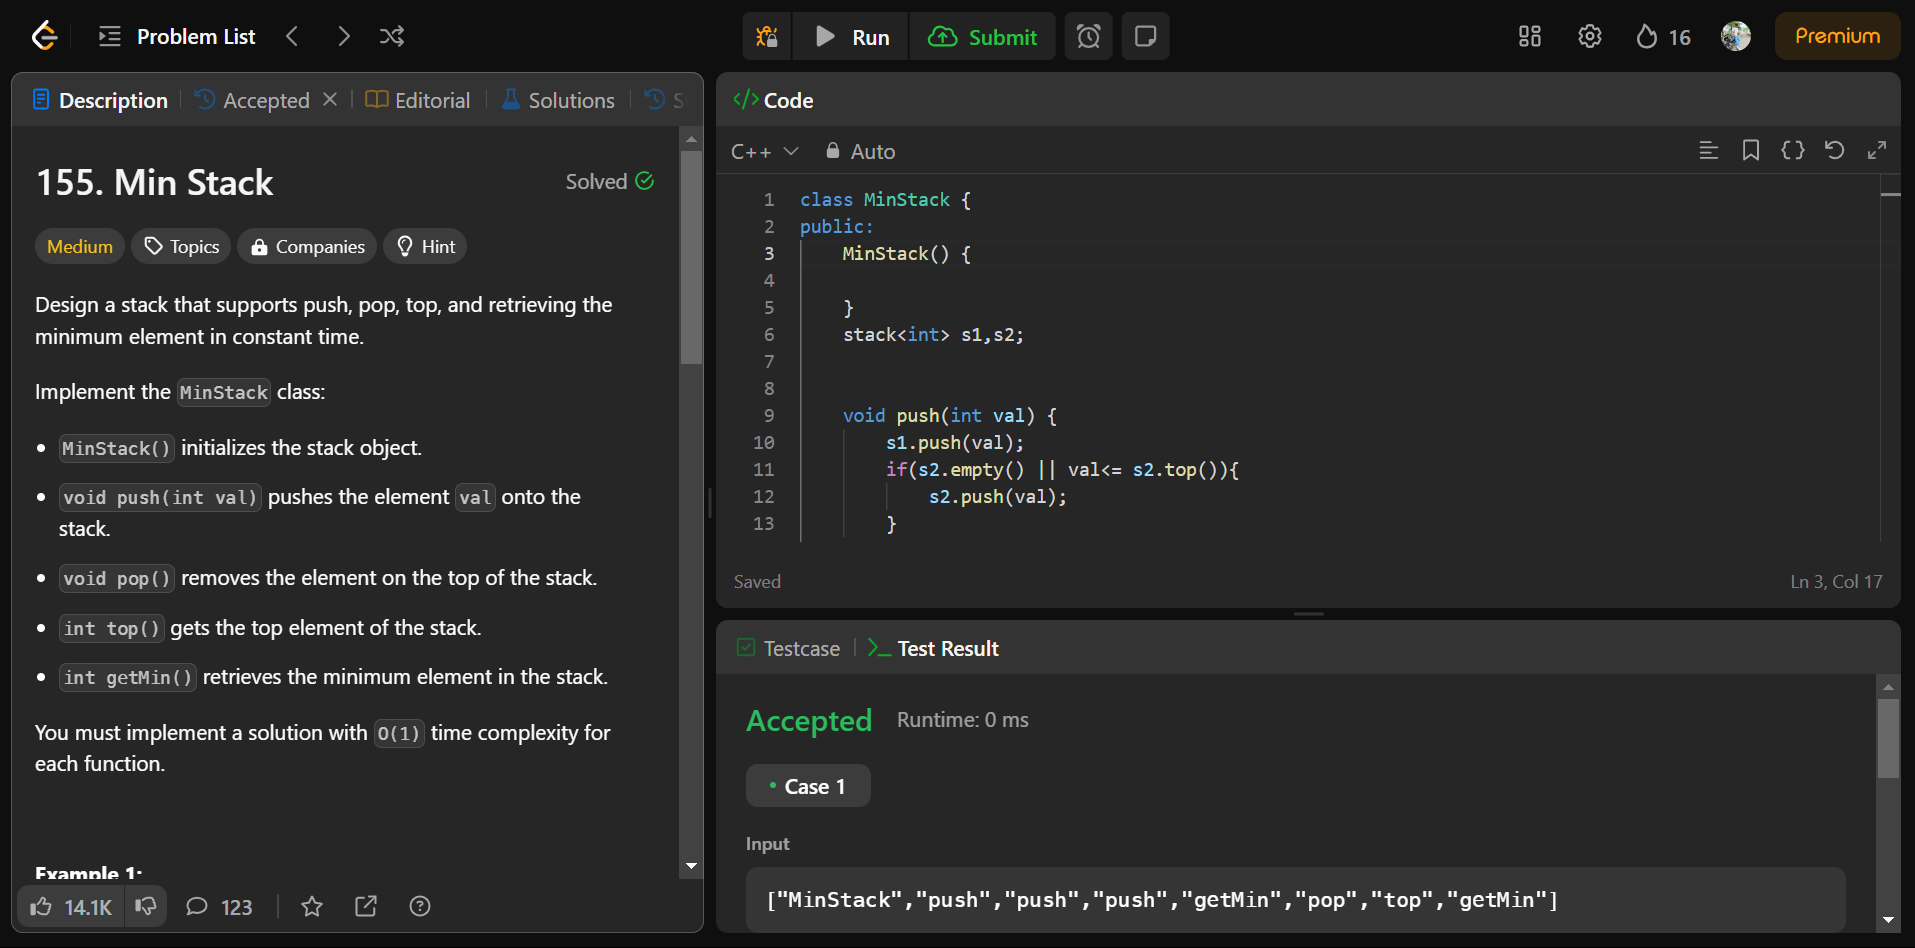
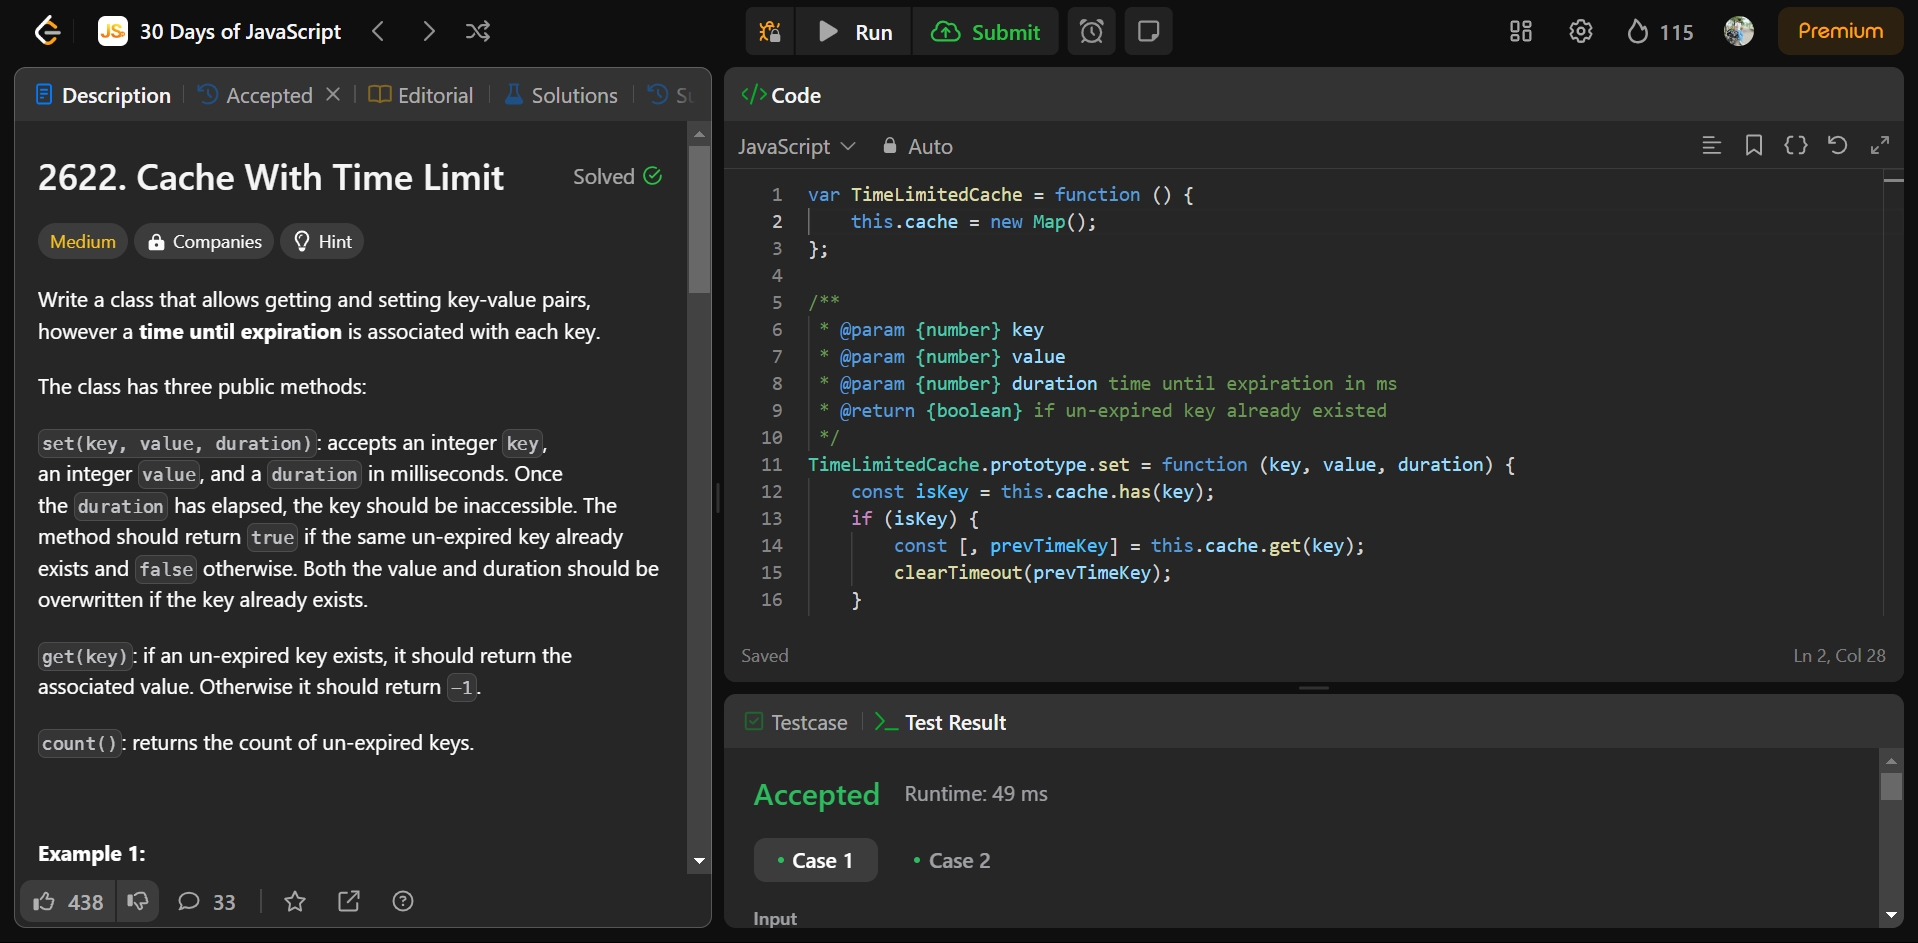
Day 17

diff --git a/Day 17/Cache with time limit.js b/Day 17/Cache with time limit.js
@@ -1,0 +1,48 @@
+var TimeLimitedCache = function () {
+    this.cache = new Map();
+};
+
+/** 
+ * @param {number} key
+ * @param {number} value
+ * @param {number} duration time until expiration in ms
+ * @return {boolean} if un-expired key already existed
+ */
+TimeLimitedCache.prototype.set = function (key, value, duration) {
+    const isKey = this.cache.has(key);
+    if (isKey) {
+        const [, prevTimeKey] = this.cache.get(key);
+        clearTimeout(prevTimeKey);
+    }
+    const timeKey = setTimeout(() => {
+        this.cache.delete(key);
+    }, duration);
+
+    this.cache.set(key, [value, timeKey]);
+    return isKey;
+};
+
+/** 
+ * @param {number} key
+ * @return {number} value associated with key
+ */
+TimeLimitedCache.prototype.get = function (key) {
+    if (!this.cache.has(key)) {
+        return -1;
+    }
+    const [value,] = this.cache.get(key);
+    return value;
+};
+
+/** 
+ * @return {number} count of non-expired keys
+ */
+TimeLimitedCache.prototype.count = function () {
+    return this.cache.size;
+};
+
+  const timeLimitedCache = new TimeLimitedCache()
+  console.log(timeLimitedCache.set(1, 42, 1000)); // false
+  console.log(timeLimitedCache.get(1)); // 42
+  console.log(timeLimitedCache.count()); // 1
+ 
